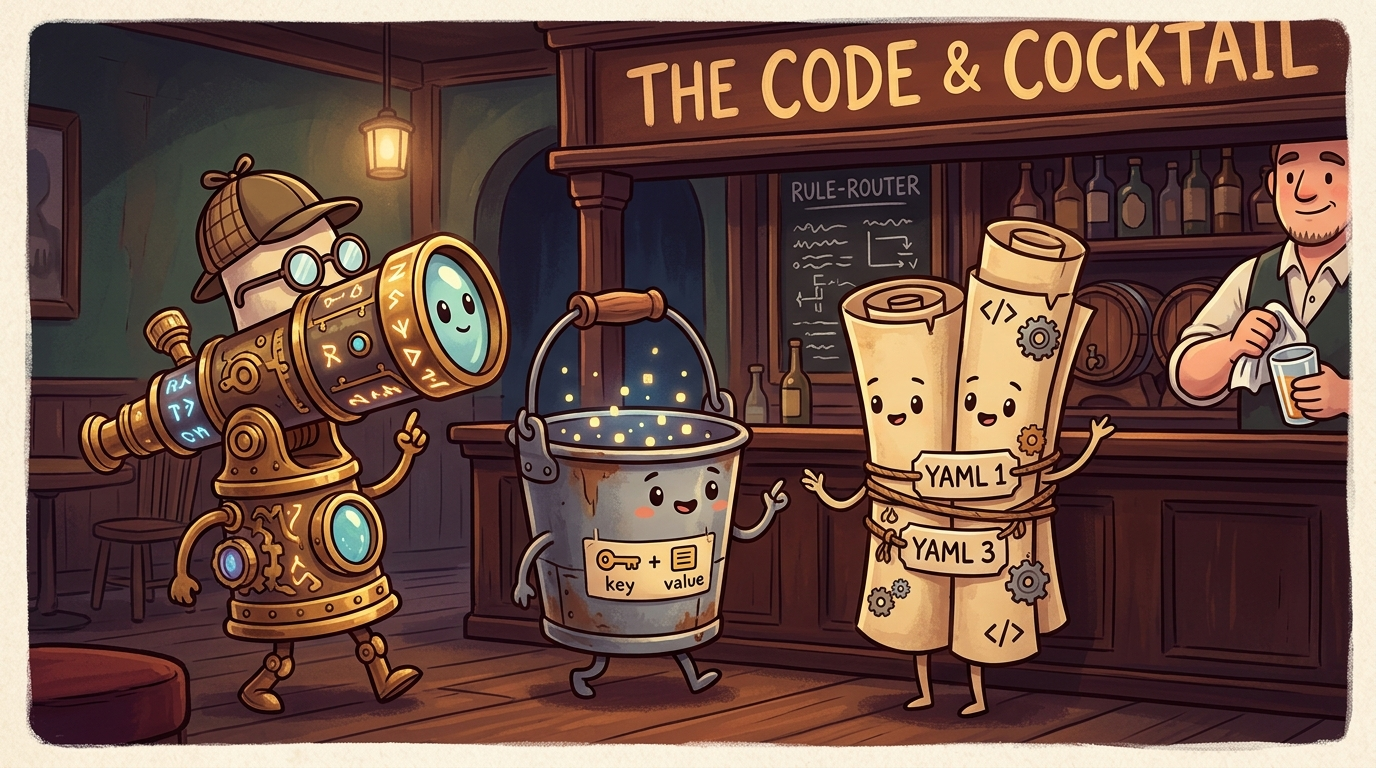
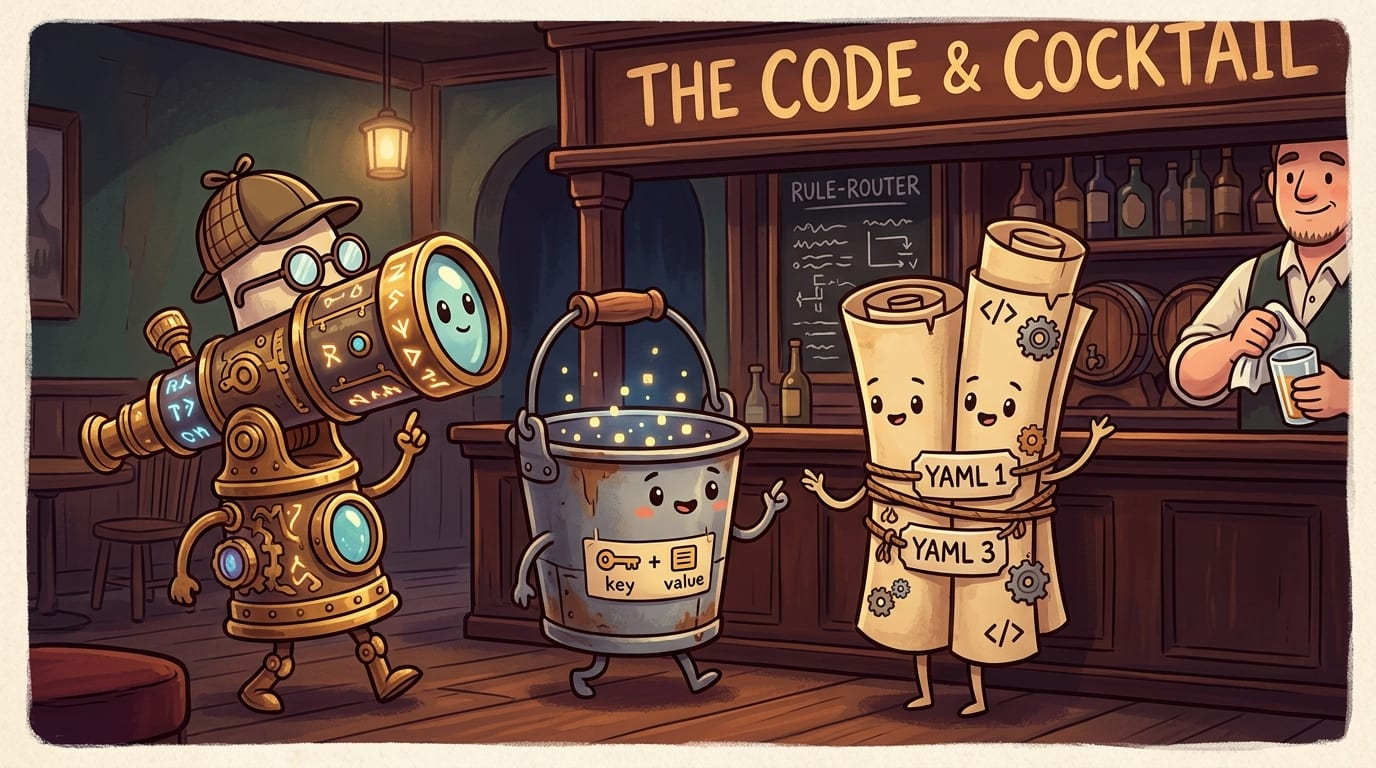
optimise the post header image and pin line endings
The header illustration was an 897KB JPEG, the largest asset in the
repo. It now ships as WebP at 143KB for on-page display, an 84% cut at
the same 1376x768 with no visible difference.

The JPEG stays, re-encoded at 180KB, because it is what og:image and the
Twitter card point at. Social scrapers are still inconsistent about
WebP, LinkedIn and Slack in particular, so the meta image keeps a format
every one of them handles. Two files, two jobs.

The inline alt text was the literal placeholder "Alt text", with the
real description in the title attribute where screen readers mostly
ignore it. Moved it to alt and dropped the tooltip.

.gitattributes pins text to LF in the repo and on checkout. The index
was already LF throughout; core.autocrlf=true on this machine converted
on checkout, which is what produced the LF/CRLF warning on every commit
touching a text file. Renormalising reported no other files, so this
changes no existing content. Images, fonts and video are declared binary
so line-ending normalisation can never touch an asset.

diff --git a/content/blog/2026-08-26-face-reader-access-control.md b/content/blog/2026-08-26-face-reader-access-control.md
@@ -8,6 +8,7 @@ tags: ["nats", "access-control", "golang", "event-driven"]
 image: "/images/blog/walks-into-bar.jpg"
 imageAlt: "Cartoon illustration of a face reader, a key-value bucket, and two YAML scrolls walking into a bar called The Code & Cocktail"
 ---
+![A face reader, a key-value bucket, and two YAML scrolls walk into a bar called The Code & Cocktail](/images/blog/walks-into-bar.webp)
 
 The [iDFace Max](https://www.controlid.com.br/en/access-control/idface-max/) is Control iD's current face reader: two 1080p cameras, a 7" touchscreen, and room for 100,000 faces with liveness detection. Control iD is an ASSA ABLOY company, and the matching runs on [Paravision](https://www.paravision.ai/news/control-id-partners-with-paravision-to-launch-new-idface-max-access-control-system/) rather than an in-house algorithm, which is most of why we looked at it. Paravision places top five worldwide on NIST's 1:N visa-border benchmark. The part of this problem we have no business writing ourselves is handled by a company that does only that.
 
